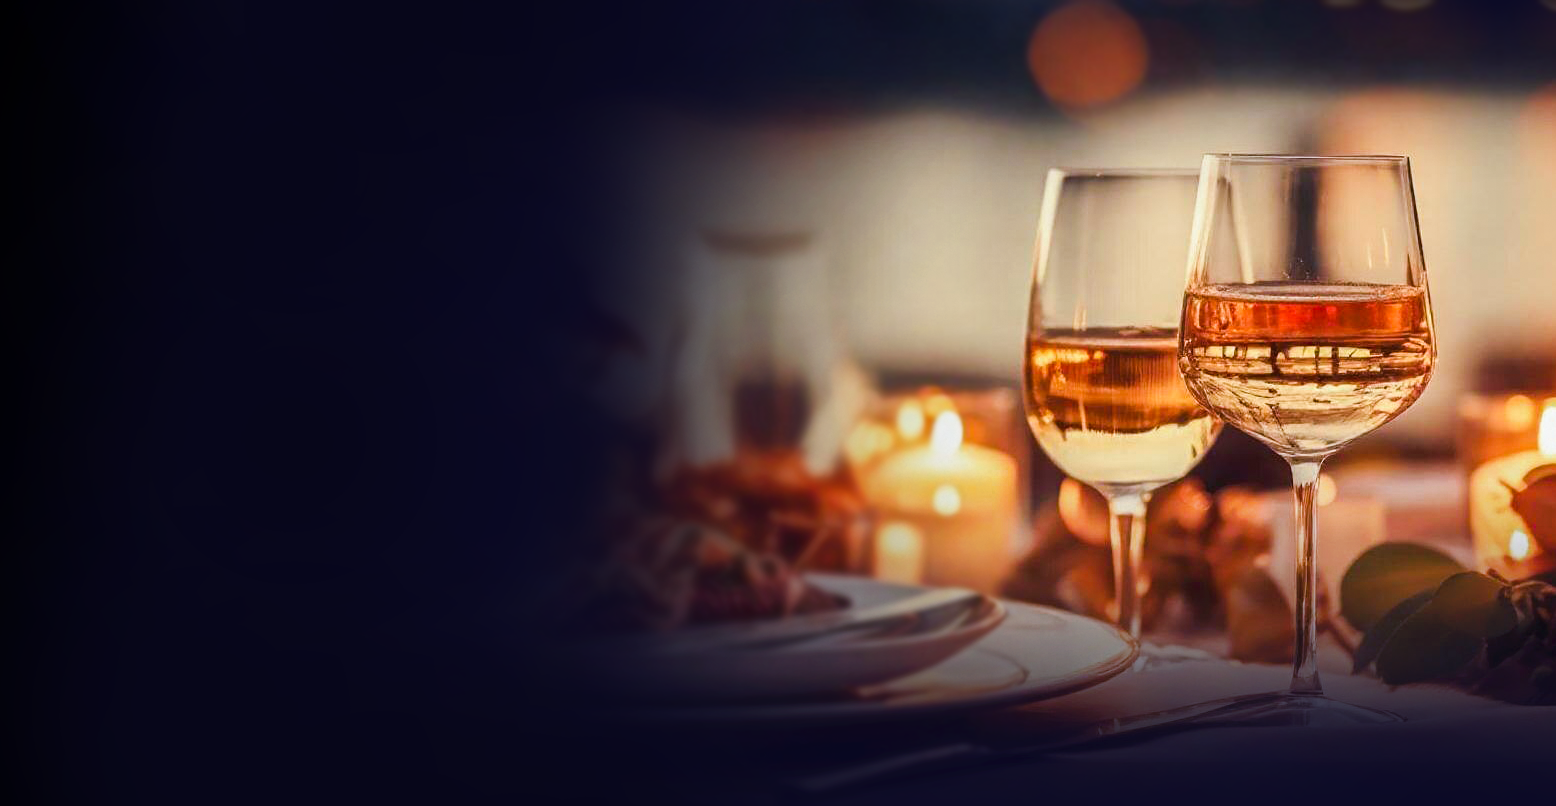
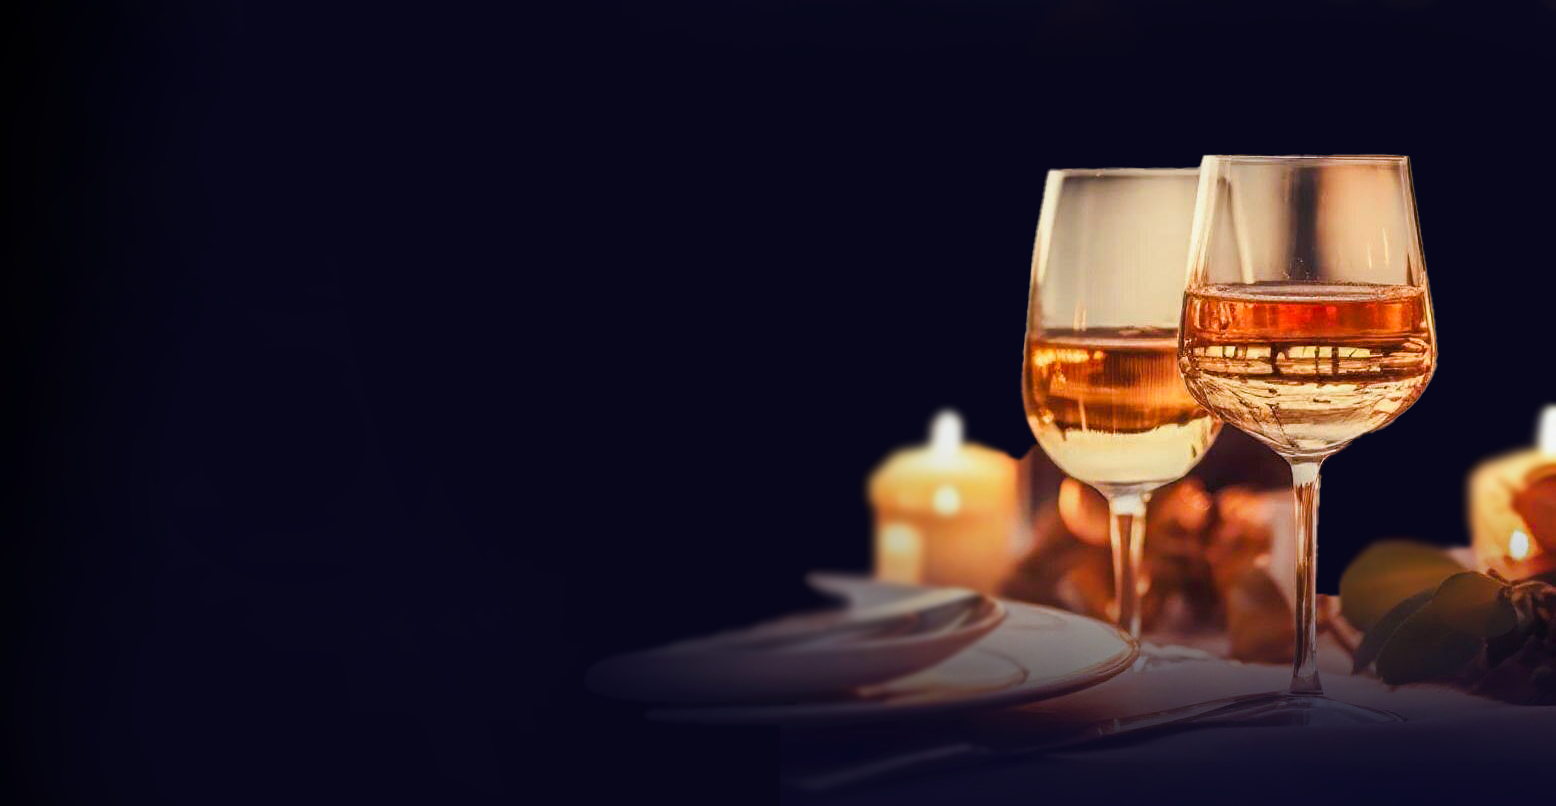
Hero

Changed region(s): [[0.3702, 0.0, 1.0, 0.8065], [0.9871, 0.0, 1.0, 0.031]]

diff --git a/src/components/Home/Hero.tsx b/src/components/Home/Hero.tsx
@@ -28,7 +28,7 @@ export default function Hero() {
           y: imageY,
          
         }}
-        className="top-0 right-0 left-0 bottom-0 opacity-100 -z-50 absolute min-h-[100vh] w-screen"
+        className="top-0 right-0 left-0 bottom-0 opacity-60 -z-50 absolute min-h-[100vh] w-screen"
       ></motion.div>
 
       <div className="justify-start container items-start">
